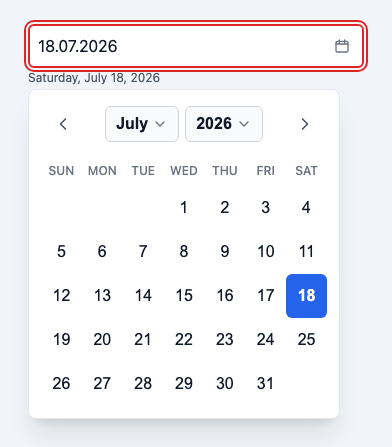
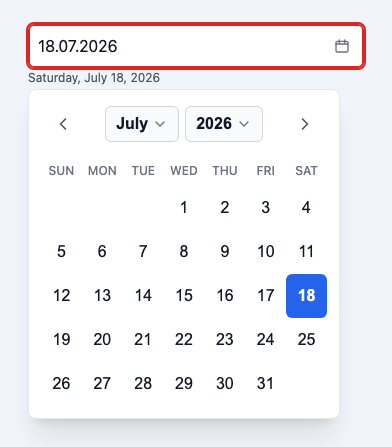
Draw the errored field's focus ring flush with its border
0.6.0 gave a focused field with an error a ring in the error colour
(BH-044), set 2px outside the red border. The border and the ring read
as two separate red lines, which is what the README's error screenshot
showed. The ring now sits flush against the border, so focus reads as
one heavier red border. A focused disabled field had the same detached
ring in grey; focus now recolours its border to the faint grey instead,
the same kind of cue an enabled field gets.

Both looks are pinned in e2e: the error outline's offset is zero, and a
disabled field's focused border is a different colour from its resting
one at 3:1 against the page, in the minimal theme where the resting
border is transparent. Both tests failed against the previous rules.
The error screenshot is retaken.

Changed region(s): [[0.0612, 0.0291, 0.949, 0.1745]]

diff --git a/src/styles.css b/src/styles.css
@@ -396,12 +396,14 @@
    * selected and read), so focus must show. It used to reset the border to
    * the plain token — transparent in the minimal theme — which left no cue
    * at all and, coming after the error rule, also erased the error border.
-   * A neutral ring marks focus without making the field look editable. */
+   * Focus recolours the border, as it does on an enabled field, in the
+   * neutral faint grey rather than the accent, so the field does not look
+   * editable. A ring set off from the border read as a second line. */
   :where(.rldp-field[data-disabled]:focus-within) {
-    border-color: var(--rldp-border, var(--rldp-border-base));
-    outline: var(--rldp-focus-width, var(--rldp-focus-width-base)) solid
-      var(--rldp-faint-foreground, var(--rldp-faint-foreground-base));
-    outline-offset: 2px;
+    border-color: var(
+      --rldp-faint-foreground,
+      var(--rldp-faint-foreground-base)
+    );
   }
   /* After the disabled rule, so an error border survives focus and
    * disabling alike. */
@@ -409,12 +411,13 @@
     border-color: var(--rldp-error, var(--rldp-error-base));
   }
   /* The error colour owns the border, so focus on an errored field used to
-   * change nothing at all. A ring in the error colour outside the border
-   * marks it. */
+   * change nothing at all. Focus thickens it instead: an outline in the same
+   * colour, flush against the border, reads as one heavier border. With a
+   * gap between them it read as two separate red lines. */
   :where(.rldp-field[data-error]:focus-within) {
     outline: var(--rldp-focus-width, var(--rldp-focus-width-base)) solid
       var(--rldp-error, var(--rldp-error-base));
-    outline-offset: 2px;
+    outline-offset: 0;
   }
 
   :where(.rldp-input) {

diff --git a/e2e/bughunt-styles.spec.ts b/e2e/bughunt-styles.spec.ts
@@ -181,6 +181,25 @@ test("focus on an errored field shows (BH-044)", async ({ page }) => {
   await page.getByRole("textbox").focus();
   const field = page.locator('[data-part="field"]');
   expect(await css(field, "outline-style")).toBe("solid");
+  // Flush against the border, so the field reads as one heavier red border.
+  // Set off by a gap, the ring and the border read as two separate lines.
+  expect(await css(field, "outline-offset"), "one border, not two lines").toBe("0px");
+});
+
+test("focus on a disabled field shows as a darker border, not a second line (BH-044)", async ({
+  page,
+}) => {
+  await page.emulateMedia({ colorScheme: "light" });
+  // The minimal theme's resting border is transparent: the hardest case.
+  await page.goto("/?locale=en&themeName=minimal&disabled=1");
+  const field = page.locator('[data-part="field"]');
+  const bg = await paintedColor(page.locator("body"));
+  const resting = await paintedColor(field, "borderTopColor");
+  await page.getByRole("textbox").focus();
+  const focused = await paintedColor(field, "borderTopColor");
+  expect(contrast(focused, bg), "focus must show on a disabled field").toBeGreaterThanOrEqual(3);
+  expect(focused).not.toEqual(resting);
+  expect(await css(field, "outline-style")).toBe("none");
 });
 
 test("a focused, disabled, errored minimal field keeps its error border (BH-044)", async ({

diff --git a/docs/THEMING.md b/docs/THEMING.md
@@ -30,7 +30,7 @@ ordinary inherited custom properties.
 | `--rldp-background` | Field and popover background |
 | `--rldp-foreground` | Primary text |
 | `--rldp-muted-foreground` | Echo, nav glyphs |
-| `--rldp-faint-foreground` | Weekday headers, placeholder, carets, the disabled field's focus ring |
+| `--rldp-faint-foreground` | Weekday headers, placeholder, carets, the disabled field's border while focused |
 | `--rldp-disabled-foreground` | Disabled days and months |
 | `--rldp-border` | Field and popover border |
 | `--rldp-border-strong` | Month and year pills |
@@ -42,7 +42,7 @@ ordinary inherited custom properties.
 | `--rldp-accent-soft` | Day hover, active pill |
 | `--rldp-accent-soft-foreground` | Text on the soft accent |
 | `--rldp-today-ring` | Today's ring |
-| `--rldp-error` | `hasError` border, and its focus ring |
+| `--rldp-error` | `hasError` border, and the outline that thickens it while focused |
 | `--rldp-ring` | Focus outline colour on unfilled controls |
 | `--rldp-radius` | Corner radius |
 | `--rldp-radius-popover` | Popover corner radius |
